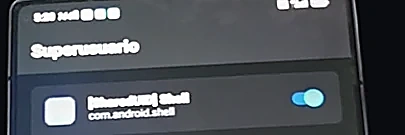
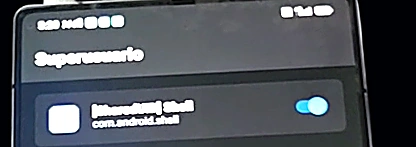
Straighten and sharpen phone photos, add real ZTE toolbox menu and model-select screenshots
Re-processed the 6 phone screenshots (precise rotation correction, bg
removal, stronger contrast/sharpening) since they still read as crooked
and blurry. Added two more real screenshots so Fase 03 has an image per
described step (main menu, model list) instead of relying on the text
description, and clarified the Magisk caption to confirm the installed
version, not just root permission.

diff --git a/src/pages/RootRedMagic11Pro.jsx b/src/pages/RootRedMagic11Pro.jsx
@@ -11,6 +11,8 @@ import powershellRoot from '../assets/redmagic-guide/powershell-root.webp'
 import homeBooted from '../assets/redmagic-guide/home-booted.webp'
 import toolboxSession from '../assets/redmagic-guide/toolbox-session.webp'
 import toolboxOpening from '../assets/redmagic-guide/toolbox-opening.webp'
+import toolboxMenu from '../assets/redmagic-guide/toolbox-menu.webp'
+import toolboxModelSelect from '../assets/redmagic-guide/toolbox-model-select.webp'
 
 // Foto real con su etiqueta, para las capturas del proceso (no mockups).
 function Shot({ src, alt, caption, wide }) {
@@ -160,10 +162,13 @@ export default function RootRedMagic11Pro() {
                   <div className="rm-box fix"><span className="tag">Solucion</span><p>Mueve toda la carpeta del toolbox a una ruta corta y sin espacios, por ejemplo <code className="mono">C:\ZTE\</code>, y abrelo de nuevo desde ahi.</p></div>
                 </div>
               </div>
+              <p>Una vez que abre bien, este es el menu principal con el que vas a trabajar durante toda la guia:</p>
+              <Shot src={toolboxMenu} alt="Menu principal del ZTE Family Toolbox con todas las opciones numeradas en chino" caption="Menu principal real del ZTE Family Toolbox." />
             </SubStep>
 
             <SubStep n="3.2" title="Elige tu modelo de telefono" expect="Un menu numerado con varios modelos de RedMagic/Nubia. Escribe el numero del tuyo y presiona Enter.">
-              <p>El programa pregunta que telefono tienes. Para el REDMAGIC 11 Pro (NX809J), busca la linea que diga algo como <code className="mono">骁龙8E5 红魔11系列</code> (Snapdragon 8 Elite Gen5, serie RedMagic 11) — <strong>no</strong> elijas una que diga &quot;(不支持解锁)&quot; (no soporta desbloqueo), esas son para otros modelos.</p>
+              <p>En el menu principal escribe <code className="mono">B</code> (opcion <code className="mono">选择机型</code> = elegir modelo) y presiona Enter. El programa pregunta que telefono tienes. Para el REDMAGIC 11 Pro (NX809J), busca la linea que diga <code className="mono">骁龙8E5 红魔11系列</code> (Snapdragon 8 Elite Gen5, serie RedMagic 11) — <strong>no</strong> elijas una que diga &quot;(不支持解锁)&quot; (no soporta desbloqueo), esas son para otros modelos.</p>
+              <Shot src={toolboxModelSelect} alt="Lista de modelos del ZTE Family Toolbox mostrando la entrada 33, Snapdragon 8 Elite Gen5, serie RedMagic 11" caption="La entrada que buscas: [33] 骁龙8E5 红魔11系列." />
             </SubStep>
 
             <SubStep n="3.3" title="Ejecuta la opcion de desbloqueo" expect="Al final, un mensaje en rojo que dice 解锁失败 (desbloqueo fallido) — si tu build es reciente, esto es normal, sigue a la Fase 04.">
@@ -239,7 +244,7 @@ export default function RootRedMagic11Pro() {
           <div className="rm-substeps">
             <SubStep n="6.1" title="Parchea init_boot_a.img con Magisk" expect="All done! y un archivo nuevo en la carpeta Download del telefono.">
               <p>Saca <code className="mono">init_boot_a.img</code> del respaldo de particiones que hiciste en la Fase 02, pasalo al telefono, instala <strong>Magisk</strong> (APK oficial, ver Recursos), y desde la app: <em>Install → Select and Patch a File</em>, elige ese archivo.</p>
-              <Shot src={magiskAlldone} alt="App Magisk mostrando All done tras parchear init_boot_a.img" caption="Magisk termina el parcheo en segundos — queda guardado en Download." />
+              <Shot src={magiskAlldone} alt="App Magisk mostrando Installing 30.7 y All done tras parchear init_boot_a.img, confirmando que Magisk quedo instalado" caption="Magisk 30.7 instalado y el parcheo terminado — queda guardado en Download." />
             </SubStep>
 
             <SubStep n="6.2" title="Flashea la imagen parcheada — por EDL, no por fastboot" expect="刷入完成 (flasheo completado), igual que en el Paso 4.3.">
